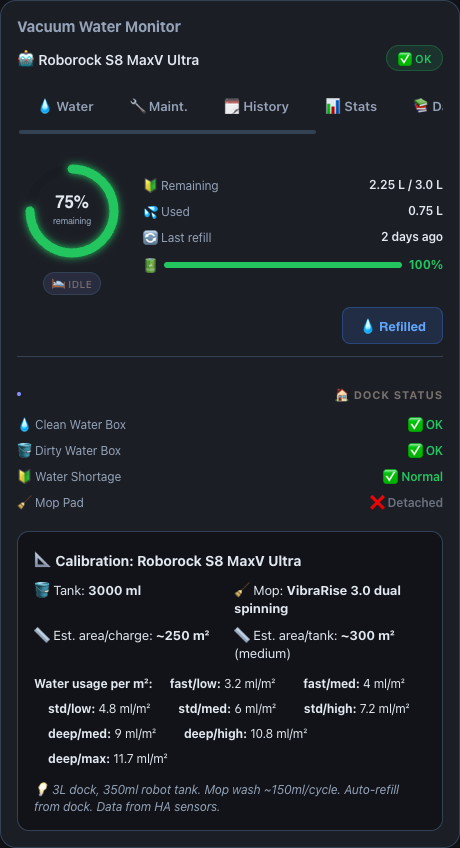
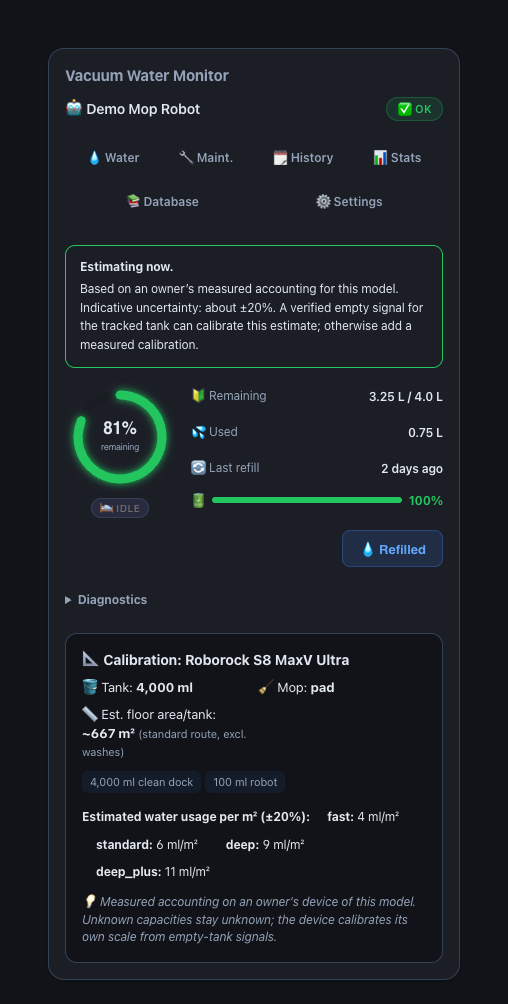
Fail closed on unknown water levels and refresh evidence screenshots

diff --git a/docs/screenshots/_harness.html b/docs/screenshots/_harness.html
@@ -18,7 +18,7 @@
   // Dismiss the first-run intro banner for clean screenshots
   try { localStorage.setItem('ha-intro-dismissed-ha-vacuum-water-monitor', '1'); } catch (e) {}
 </script>
-<script src="../../ha-vacuum-water-monitor.js"></script>
+<script src="../../ha-vacuum-water-monitor.js?screenshot=20260927"></script>
 <script>
 (function () {
   const params = new URLSearchParams(location.search);
@@ -26,7 +26,7 @@
   const tab = params.get('tab') || 'water';
   document.body.className = theme;
 
-  const VAC = 'vacuum.roborock_s8_maxv_ultra';
+  const VAC = 'vacuum.demo_mop_robot';
   const now = Date.now();
   const dayMs = 86400000;
 
@@ -37,10 +37,18 @@
     user_devices: [
       {
         vacuum_entity: VAC,
-        name: 'Roborock S8 MaxV Ultra',
+        name: 'Demo Mop Robot',
         icon: '🤖',
         brand_profile: 'roborock_s8_maxv_ultra',
         water_total_ml: 4000,
+        profile_key: 'roborock_s8_maxv_ultra',
+        profile_source: 'catalog',
+        capability: 'automatic_estimate',
+        estimate_basis: 'owner_device',
+        uncertainty_percent: 20,
+        accounting_evidence: 'labeled_estimate',
+        tracked_reservoir: 'dock_clean',
+        tracked_capacity_ml: 4000,
       },
     ],
     maintenance_items: [
@@ -62,6 +70,10 @@
     last_area: 32.5,
     last_dock_err: null,
     last_door: null,
+    initialized: true,
+    last_accounting_source: 'area',
+    last_accounting_rate_ml: 6,
+    last_accounting_evidence: 'labeled_estimate',
   };
 
   if (params.get('calibration') === '1') {
@@ -72,14 +84,14 @@
     entity_id: VAC,
     state: 'docked',
     attributes: {
-      friendly_name: 'Roborock S8 MaxV Ultra',
+      friendly_name: 'Demo Mop Robot',
       battery_level: 100,
       status: 'docked',
     },
     last_changed: new Date(now - 3600000).toISOString(),
   };
-  states['sensor.roborock_s8_maxv_ultra_cleaning_area'] = {
-    entity_id: 'sensor.roborock_s8_maxv_ultra_cleaning_area',
+  states['sensor.demo_mop_robot_cleaning_area'] = {
+    entity_id: 'sensor.demo_mop_robot_cleaning_area',
     state: '32.5',
     attributes: { friendly_name: 'Cleaning area', unit_of_measurement: 'm²' },
   };
@@ -95,7 +107,7 @@
     callWS: async (msg) => {
       const type = String(msg && msg.type || '');
       if (type.endsWith('/list_vacuums')) {
-        return { vacuums: [{ entity_id: VAC, name: 'Roborock S8 MaxV Ultra', state: 'docked', battery: 100 }] };
+        return { vacuums: [{ entity_id: VAC, name: 'Demo Mop Robot', state: 'docked', battery: 100 }] };
       }
       if (type.endsWith('/get_state')) {
         return { settings, tank_states: tankStates };

diff --git a/custom_components/ha_vacuum_water_monitor/www/ha-vacuum-water-monitor.js b/custom_components/ha_vacuum_water_monitor/www/ha-vacuum-water-monitor.js
@@ -5689,18 +5689,19 @@ class HAVacuumWaterMonitor extends HTMLElement {
       return box('Unavailable signal.', 'Automatic estimate is waiting for a usable configured same-device status or area signal.', '#f59e0b');
     }
     const active = Boolean(data.accountingSource && Number.isFinite(Number(data.accountingRate)) && Number(data.accountingRate) > 0 && !data.stateReason);
-    const uncertainty = Number.isFinite(Number(data.uncertaintyPercent))
+    const hasUncertainty = data.uncertaintyPercent != null && Number.isFinite(Number(data.uncertaintyPercent));
+    const uncertainty = hasUncertainty
       ? ` Initial uncertainty: approximately ${Number(data.uncertaintyPercent)}%.`
       : '';
     const samples = Math.max(0, Number(data.calibrationSamples) || 0);
-    const accuracy = Number.isFinite(Number(data.uncertaintyPercent)) ? ` About \u00B1${Number(data.uncertaintyPercent)}%.` : '';
+    const accuracy = hasUncertainty ? ` Indicative uncertainty: about \u00B1${Number(data.uncertaintyPercent)}%.` : '';
     if (samples > 0) {
       const factor = Number.isFinite(Number(data.calibrationFactor)) ? Number(data.calibrationFactor) : 1;
       return box('Calibrated for this robot.', `Calibrated on ${samples} empty ${samples === 1 ? 'tank' : 'tanks'} (correction \u00D7${Number(factor.toFixed(2))}).${accuracy} Every empty-tank signal refines it automatically.`, '#22c55e');
     }
     if (data.estimateBasis) {
       const label = VWM_BASIS_LABEL[data.estimateBasis] || 'Labelled estimate';
-      return box(active ? 'Estimating now.' : 'Estimated usage.', `${_esc(label)}.${accuracy} It calibrates automatically the first time the dock reports an empty clean-water tank; no manual measurement is needed.`, '#22c55e');
+      return box(active ? 'Estimating now.' : 'Estimated usage.', `${_esc(label)}.${accuracy} A verified empty signal for the tracked tank can calibrate this estimate; otherwise add a measured calibration.`, '#22c55e');
     }
     if (data.capability === 'manual_only' && active && data.accountingEvidence === 'user_calibration') {
       return box('Measured calibration active.', 'This manual-only model is currently accounting from your measured calibration and same-device signal.', '#22c55e');

diff --git a/ha-vacuum-water-monitor.js b/ha-vacuum-water-monitor.js
@@ -5689,18 +5689,19 @@ class HAVacuumWaterMonitor extends HTMLElement {
       return box('Unavailable signal.', 'Automatic estimate is waiting for a usable configured same-device status or area signal.', '#f59e0b');
     }
     const active = Boolean(data.accountingSource && Number.isFinite(Number(data.accountingRate)) && Number(data.accountingRate) > 0 && !data.stateReason);
-    const uncertainty = Number.isFinite(Number(data.uncertaintyPercent))
+    const hasUncertainty = data.uncertaintyPercent != null && Number.isFinite(Number(data.uncertaintyPercent));
+    const uncertainty = hasUncertainty
       ? ` Initial uncertainty: approximately ${Number(data.uncertaintyPercent)}%.`
       : '';
     const samples = Math.max(0, Number(data.calibrationSamples) || 0);
-    const accuracy = Number.isFinite(Number(data.uncertaintyPercent)) ? ` About \u00B1${Number(data.uncertaintyPercent)}%.` : '';
+    const accuracy = hasUncertainty ? ` Indicative uncertainty: about \u00B1${Number(data.uncertaintyPercent)}%.` : '';
     if (samples > 0) {
       const factor = Number.isFinite(Number(data.calibrationFactor)) ? Number(data.calibrationFactor) : 1;
       return box('Calibrated for this robot.', `Calibrated on ${samples} empty ${samples === 1 ? 'tank' : 'tanks'} (correction \u00D7${Number(factor.toFixed(2))}).${accuracy} Every empty-tank signal refines it automatically.`, '#22c55e');
     }
     if (data.estimateBasis) {
       const label = VWM_BASIS_LABEL[data.estimateBasis] || 'Labelled estimate';
-      return box(active ? 'Estimating now.' : 'Estimated usage.', `${_esc(label)}.${accuracy} It calibrates automatically the first time the dock reports an empty clean-water tank; no manual measurement is needed.`, '#22c55e');
+      return box(active ? 'Estimating now.' : 'Estimated usage.', `${_esc(label)}.${accuracy} A verified empty signal for the tracked tank can calibrate this estimate; otherwise add a measured calibration.`, '#22c55e');
     }
     if (data.capability === 'manual_only' && active && data.accountingEvidence === 'user_calibration') {
       return box('Measured calibration active.', 'This manual-only model is currently accounting from your measured calibration and same-device signal.', '#22c55e');

diff --git a/tests/test_card_estimates.py b/tests/test_card_estimates.py
@@ -38,7 +38,12 @@ const data = { profileKey: 'roborock_qrevo_curv_2_flow', mopSystem: 'roller', in
 const payload = card._buildCalibrationSharePayload(device, data);
 const html = card._buildCalibrationSharingSection(device, data);
 const url = card._calibrationShareUrl(payload);
-console.log(JSON.stringify({ u: cases.map(([b, f]) => card._estimateUncertainty(b, f)), payload, html, url }));
+const guidance = (uncertaintyPercent) => card._buildAccountingGuidance({
+  capability: 'automatic_estimate', initialized: true, accountingSource: 'area', accountingRate: 6,
+  stateReason: null, uncertaintyPercent, calibrationSamples: 0,
+});
+console.log(JSON.stringify({ u: cases.map(([b, f]) => card._estimateUncertainty(b, f)), payload, html, url,
+  guidanceNull: guidance(null), guidance20: guidance(20) }));
 """
 
 
@@ -52,6 +57,10 @@ class CardEstimateTests(unittest.TestCase):
     def test_card_uncertainty_matches_backend(self):
         expected = [estimation.uncertainty_percent(basis, factors) for basis, factors in CASES]
         self.assertEqual(self.result["u"], expected)
+
+    def test_missing_uncertainty_is_not_rendered_as_zero_percent(self):
+        self.assertNotIn("0%", self.result["guidanceNull"])
+        self.assertIn("20%", self.result["guidance20"])
 
     def test_share_payload_contains_no_identifiers_or_timestamps(self):
         payload = self.result["payload"]

diff --git a/tests/test_beta2_accuracy.py b/tests/test_beta2_accuracy.py
@@ -62,13 +62,13 @@ class WaterLevelTests(unittest.TestCase):
                 self.assertAlmostEqual(state["used_ml"], ml, places=1)
                 self.assertIsNone(state.get("intensity_unmapped"))
 
-    def test_levels_without_a_factor_are_reported(self):
+    def test_levels_without_a_factor_are_not_billed_as_medium(self):
         for level in ("smart_mode", "custom_water_flow", "custom"):
             with self.subTest(level=level):
                 state = self.ml_for(level)
-                self.assertAlmostEqual(state["used_ml"], 60, places=1)
+                self.assertEqual(state["used_ml"], 0)
                 self.assertEqual(state["intensity_unmapped"], level)
-                self.assertFalse(state.get("accounting_incomplete"))
+                self.assertTrue(state.get("accounting_incomplete"))
 
 
 if __name__ == "__main__":

diff --git a/custom_components/ha_vacuum_water_monitor/tick.py b/custom_components/ha_vacuum_water_monitor/tick.py
@@ -458,6 +458,10 @@ def _tick_device_pass(
         and not any(_positive_number(intensity_map.get(key)) is not None for key in _rate_key_candidates(mop_intensity))
         else None
     )
+    # An explicit but unrecognized output level is not the declared default.
+    # Charging it at the medium rate hides a settings mismatch as precise water.
+    if unmapped_intensity is not None:
+        intensity_factor = None
     if state.get("intensity_unmapped") != unmapped_intensity:
         state["intensity_unmapped"] = unmapped_intensity
     calibration_factor = _clamp(

diff --git a/README.md b/README.md
@@ -43,17 +43,19 @@ calibration limits, plus a privacy-safe partial-session template.
 The integration always starts from the best data available for your model and then corrects
 itself on your robot:
 
-1. **Model database.** Each model record carries its tank capacities and a mop system (pad,
-   rotating pads or roller). Water use is estimated from what Home Assistant reports: cleaned
-   area per route and water level, and every dock mop-wash sequence.
-2. **Labelled basis and accuracy.** Each estimate says what it is based on, from most to least
+1. **Model database.** A model record may contain a verified capacity and mop system (pad,
+   rotating pads or roller); many records have neither. When the robot exposes usable mop
+   state and cleaned area, the labelled estimate uses route and water level. A dock wash is
+   counted only when its completion is observed. Unknown output levels stop floor accounting
+   until mapped, instead of silently using the medium level.
+2. **Labelled basis and uncertainty.** Each estimate says what it is based on, from most to least
    specific: learned from calibrated robots of the same model, an owner's measured accounting
    on that model, manufacturer or review data, a closely related model, the typical values for
-   the mop system, or a generic mopping estimate. Each basis has a fixed starting accuracy
-   (±15% to ±65%).
+   the mop system, or a generic mopping estimate. The initial 15–65% uncertainty labels
+   describe the chosen prior; they are not measured error bounds for a particular robot.
 3. **Automatic calibration.** When the dock reports an empty clean-water tank, the prediction
    for that tank is compared with the tank capacity. The median of recent tanks becomes the
-   robot's correction. Until three tanks are learned, a tank far outside the estimate's accuracy
+   robot's correction. Until three tanks are learned, a tank far outside the estimate's uncertainty band
    (a tank lifted mid-cycle, a top-up nobody reported) waits for the next tank to confirm it;
    after that an abnormal tank is ignored. A tank whose signals were missing for more than a
    short, bridgeable gap does not teach the robot. An estimated dock tank is closed at capacity
@@ -156,16 +158,16 @@ What happens under the hood:
 | Automatic | Manual (optional) |
 |---|---|
 | Discovering vacuums | Pressing **Refilled** after you fill the tank |
-| Water usage estimation for every recognised model (labelled estimate + automatic calibration) | Your own measured ml/m² or tank size, which replace the estimate |
+| Labelled water-use estimate when mop/exposure signals are usable; automatic calibration only with a verified empty-tank signal | Your own measured ml/m² or tank size, which replace the estimate |
 | Detecting a refill when the dock's empty-water error clears (can be switched off) | Pressing **Refilled**, a bound button, a tank lid sensor or the `mark_refilled` action |
 | Tank capacity for known models | Wiring extra sensors (dock errors, tank door) |
 | Sensors + card registration | Maintenance schedule entries |
 
 > **Labelled estimates that calibrate themselves.** Most robot vacuums do not report actual
-> water volume. A recognised model therefore starts from a labelled estimate (see below) and
-> learns its own correction from the dock's empty-water signal. Every number shows where it
-> came from and how accurate it is. A value with no basis at all (an unrecognised model with
-> no capacity) is never invented: Unknown remains unknown.
+> water volume. A recognised mopping model can start from a labelled estimate when the
+> required signals are mapped; it learns a correction only when the tracked reservoir has
+> a verified empty-tank signal. The displayed uncertainty is not a guarantee of accuracy.
+> Without a usable signal or refill baseline, remaining water stays Unknown.
 
 ### Manual-only models and the refill baseline
 
@@ -218,13 +220,14 @@ silently.
 |---|---|
 | ![Water tab, light theme](docs/screenshots/card-water-light.png) | ![Water tab, dark theme](docs/screenshots/card-water-dark.png) |
 
-*The Water tab: estimated tank level, usage since refill, and the Refilled button. Dark
-mode follows your Home Assistant theme automatically.*
+*The Water tab with synthetic robot data: labelled estimate, indicative uncertainty,
+usage since a simulated refill, and the Refilled button. No household history or
+device identifiers are shown. Dark mode follows your Home Assistant theme.*
 
 ![Settings tab](docs/screenshots/card-settings.png)
 
-*Vacuums are auto-discovered — the ⚙ Settings tab lets you add discovered robots, tune
-calibration, and manage the maintenance schedule.*
+*The ⚙ Settings tab lets you add discovered robots, map signals, tune calibration,
+and manage maintenance. This screenshot also uses synthetic device data.*
 
 ## Installation
 

diff --git a/docs/model-support-matrix.md b/docs/model-support-matrix.md
@@ -9,6 +9,7 @@ tracked reservoir, or that a consumption rate applies.
 | Model row status | Detection | Data available | Estimate scope | Limits and calibration |
 |---|---|---|---|---|
 | Recognized candidate | Catalog identifier or a source names the model | Identity and possibly capacity/options | None by identity alone | Confirm the exact integration, firmware, reservoir and settings. A capacity is not consumption. |
+| Labelled catalog estimate | Mopping model plus usable mop/exposure signals | Class or explicit model prior, with basis and uncertainty label | Provisional per-area floor use and observed dock washes; remaining percentage also needs a refill baseline and capacity | A prior is not a measured device rate. An unmapped water-output level or accounting gap makes the current balance incomplete. |
 | Integration mapped | Same-device Home Assistant roles resolve without ambiguity | Area, duration, state or settings only when actually exposed | A local/user calibration may use its matching exposure | Missing or changed signals keep accounting unknown; an ID match never fills gaps. |
 | Physical volume available | Explicit same-reservoir mL/L sensor | Current measured volume and unit | Direct remaining/used volume for that reservoir | Unit, range and reservoir must match. A percent or generic tank enum is not volume. |
 | Local calibration | User's complete, measured refill cycles | Measured refill, area or duration, context and validation history | Only the recorded device/context and declared scope | It stays private; changing firmware, settings, reservoir or exposure invalidates applicability. |
@@ -20,7 +21,7 @@ tracked reservoir, or that a consumption rate applies.
 |---|---|---|
 | Measured | Physical volume or a repeatable user measurement with known context | Yes, within the stated device, reservoir and scope. |
 | Manufacturer data | A dated manufacturer claim such as capacity, supported mode or declared action quantity | Only for the exact stated claim; it is not silently converted into a per-cycle rate. |
-| Derived estimate | A clearly labelled calculation from disclosed assumptions and inputs | Yes when a future dataset contract explicitly supplies it, always with its source and limits. It is never presented as measured. |
+| Derived estimate | A clearly labelled catalog prior or calculation from disclosed assumptions and inputs | Yes when the live signal path supports it, with its source and limits. It is never presented as measured. |
 | Unknown | Identity, signal, unit, context or evidence is missing | No. The card keeps the value unknown instead of inventing a fallback. |
 
 The shipped v0.2.0 snapshot contains two **Manufacturer data** entries for Xiaomi H50 Pro:
@@ -37,9 +38,10 @@ they do not imply the other columns are supported.
 The private read-only shadow review established that Water Monitor can inspect local event
 history without operating the household robots. It did **not** contain a physical measured
 water volume, an approved shared profile or a hardware-verified live source contract.
-Therefore the Roborock evidence is useful for discovery and replay diagnostics, while
-consumption remains local-calibration, explicit source-contract or unknown. It must not be
-turned into a universal Roborock rate.
+Therefore the Roborock evidence is useful for discovery and replay diagnostics. The
+catalog's labelled priors may produce a provisional estimate for a mapped robot; this
+review does not validate their physical accuracy or turn them into a universal Roborock
+rate. Device calibration still needs a real full-to-empty tracked tank cycle.
 
 ## Contributing a partial session
 

diff --git a/docs/runtime-consumption-contract.md b/docs/runtime-consumption-contract.md
@@ -4,6 +4,12 @@ The application now has a consumption resolver separate from the capacity/model 
 The pinned snapshot still contains **zero approved profiles**. Synthetic tests establish
 code behavior, not firmware compatibility, completeness or physical accuracy.
 
+This strict dataset resolver is separate from the live catalog's labelled class/model
+priors. The latter can estimate floor use for a mapped mopping robot even when the shared
+dataset has no approved empirical profile. Its basis and provisional uncertainty stay
+visible; missing or unrecognized water-output settings stop accounting rather than being
+silently treated as a medium setting. Neither path proves real-device accuracy.
+
 ## Applicability and precedence
 
 `profiles.resolve_consumption_profile(context, signals, calibration, dataset)` returns
